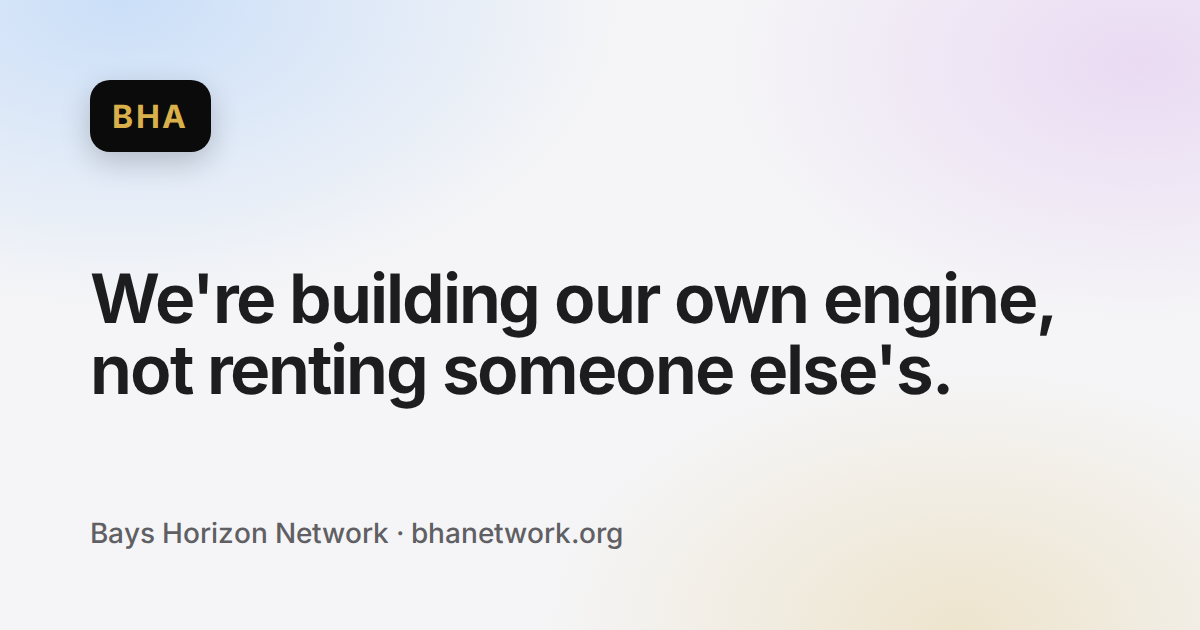
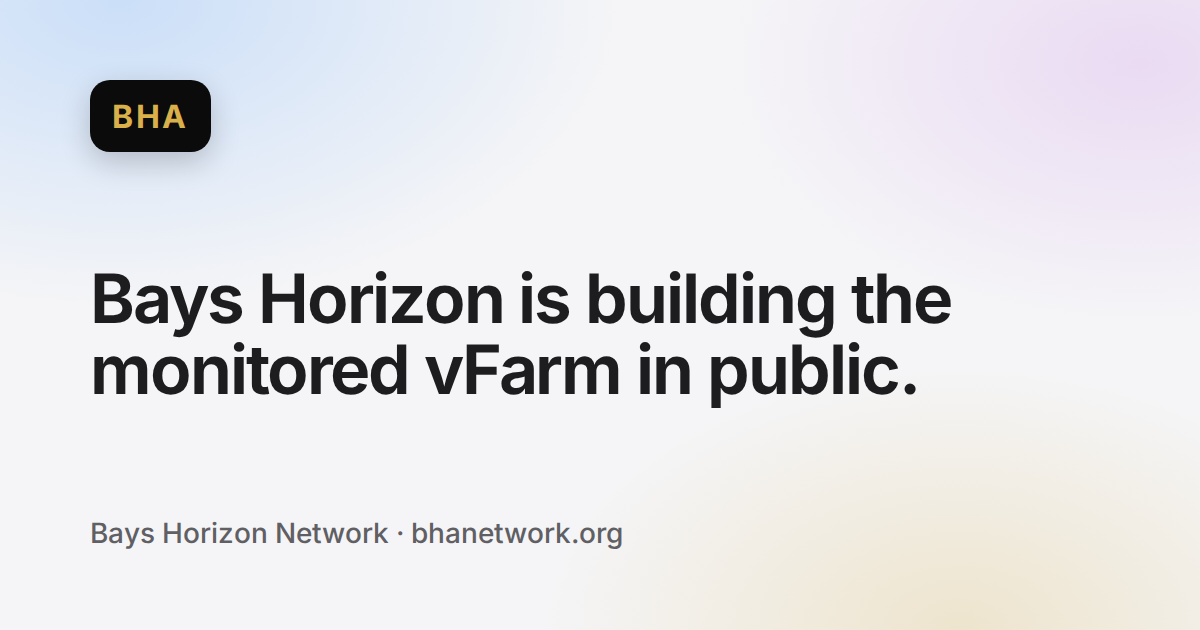
Home title and share image follow the new hero headline
- Home <title>, og:title and twitter:title: "Bays Horizon Network — building
  the monitored vFarm in public".
- public/og.png regenerated with the new headline (the default link-preview
  image for every page until a hero render is set in the renders manifest).

Claude-Session: https://claude.ai/code/session_017qLgajSJtGzHYoXCCEqDG3

Changed region(s): [[0.0617, 0.4222, 0.8942, 0.6635]]

diff --git a/src/content/site.ts b/src/content/site.ts
@@ -43,7 +43,7 @@ export const footer = {
 /** Per-page <head> copy. /vfarm's comes from landing-config (see src/lib/meta.ts). */
 export const meta = {
   home: {
-    title: "Bays Horizon Network — building our own engine, not renting someone else's",
+    title: 'Bays Horizon Network — building the monitored vFarm in public',
     description:
       'We are wiring a real vertical farm to an AI engine that uses data from each growing cycle to inform future improvements.',
   },
